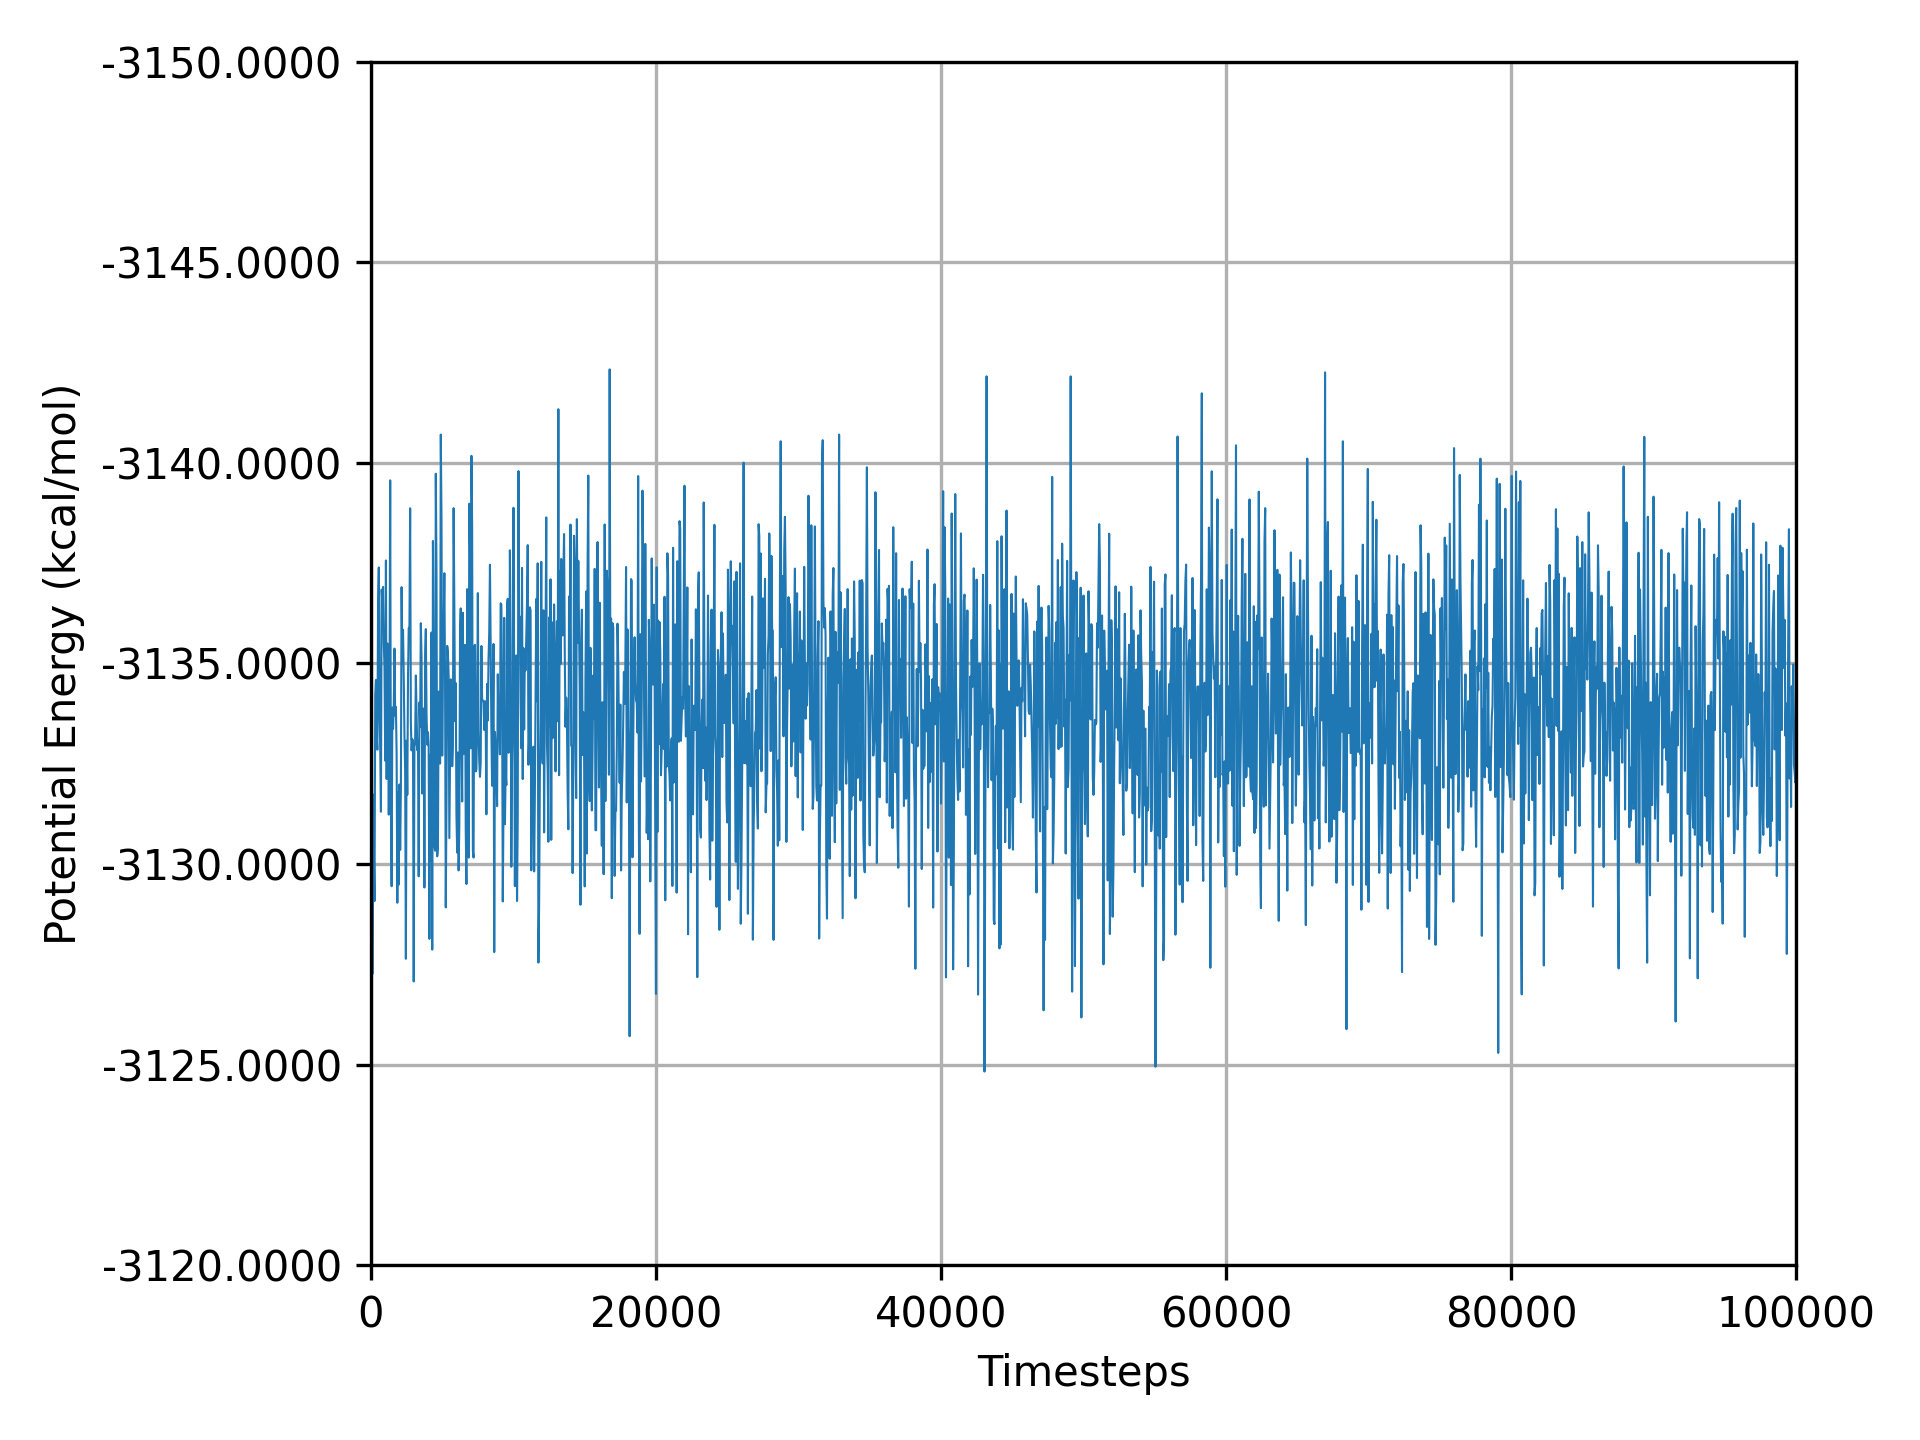
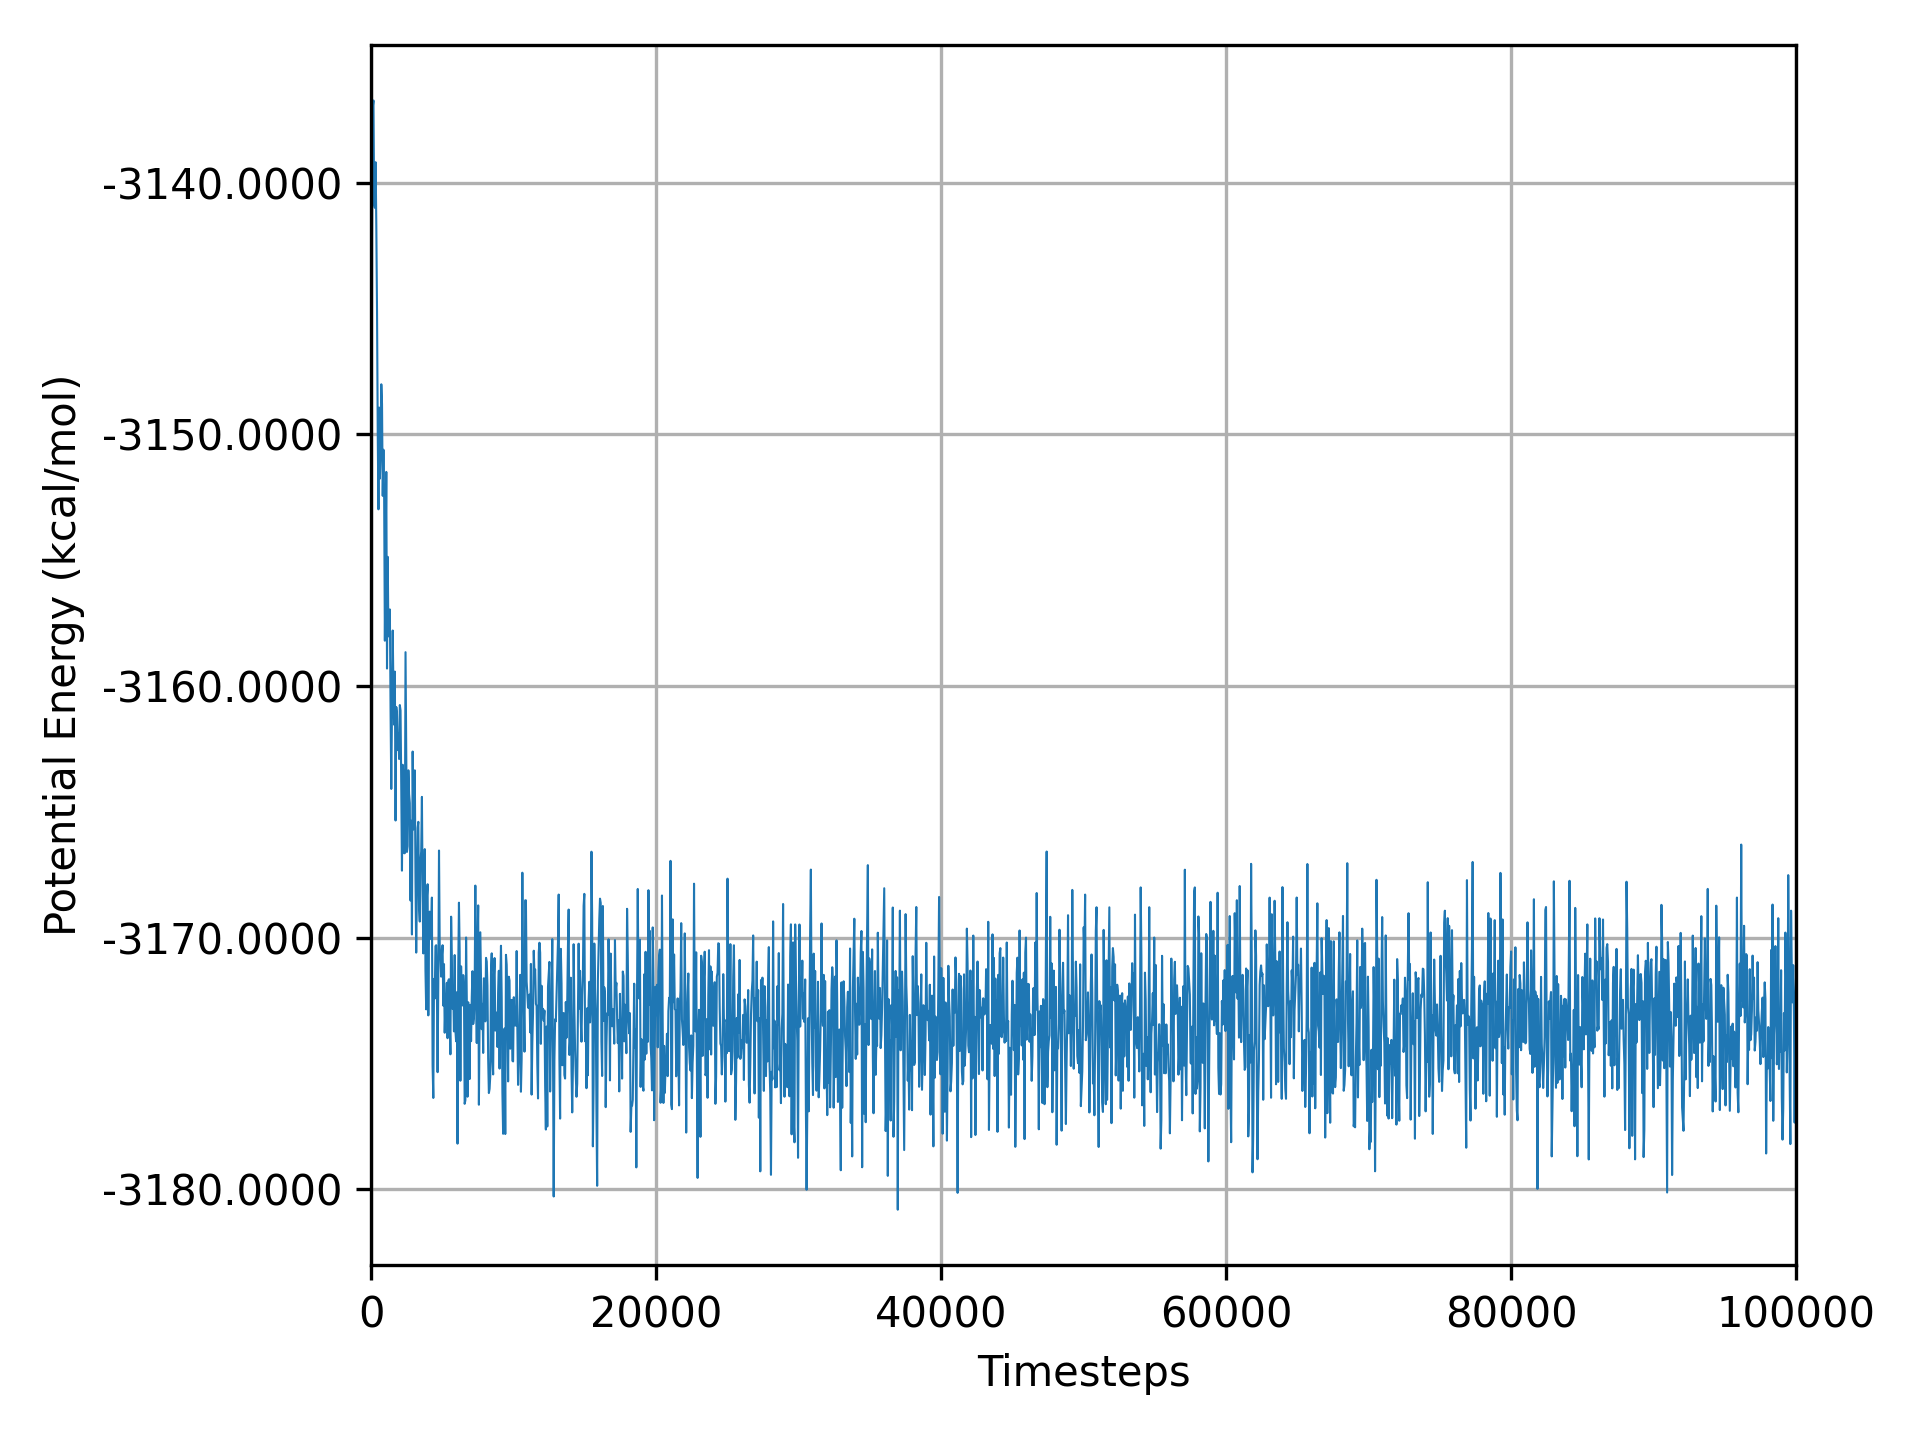
Update examples and analysis scripts

diff --git a/examples/nvt.rs b/examples/nvt.rs
@@ -1,3 +1,5 @@
+extern crate pretty_env_logger;
+
 use std::fs::File;
 use std::io::BufReader;
 
@@ -8,6 +10,8 @@ static OUTPUT_INTERVAL: usize = 50;
 static OUTPUT_FILENAME: &str = "nvt.h5";
 
 fn main() {
+    pretty_env_logger::init();
+
     // Load an Ar gas system from a POSCAR formatted file.
     let file = File::open("resources/test/Ar.poscar").unwrap();
     let reader = BufReader::new(file);
@@ -19,11 +23,12 @@ fn main() {
 
     // Initialize a Lennard-Jones style pair potential between all Ar-Ar pairs.
     let lj = LennardJones::new(4.184, 3.4);
-    let meta = PairMeta::new(8.5, (Element::Ar, Element::Ar), &system);
+    let argon = Specie::from_element(0, Element::Ar);
 
     // Store all of the system's potentials in a Potentials struct.
     let potentials = PotentialsBuilder::new()
-        .add_pair(meta, Box::new(lj))
+        .with_update_interval(5)
+        .with_pair(Box::new(lj), 8.5, (argon, argon))
         .build();
 
     // Initialize a velocity Verlet style integrator.
@@ -32,7 +37,7 @@ fn main() {
     // Initialize a Nose-Hoover style thermostat.
     let nose_hoover = NoseHoover::new(300.0, 1.25, 1.0);
 
-    // Run MD with a thermostat to simulate the NVT ensemble.
+    // Run MD with a Nose-Hoover thermostat to simulate the NVT ensemble.
     let md = MolecularDynamics::new(Box::new(velocity_verlet), Box::new(nose_hoover));
 
     // Initialize a configuration.

diff --git a/examples/nve.rs b/examples/nve.rs
@@ -1,3 +1,5 @@
+extern crate pretty_env_logger;
+
 use std::fs::File;
 use std::io::BufReader;
 
@@ -8,6 +10,8 @@ static OUTPUT_INTERVAL: usize = 50;
 static OUTPUT_FILENAME: &str = "nve.h5";
 
 fn main() {
+    pretty_env_logger::init();
+
     // Load an Ar gas system from a POSCAR formatted file.
     let file = File::open("resources/test/Ar.poscar").unwrap();
     let reader = BufReader::new(file);
@@ -19,11 +23,12 @@ fn main() {
 
     // Initialize a Lennard-Jones style pair potential between all Ar-Ar pairs.
     let lj = LennardJones::new(4.184, 3.4);
-    let meta = PairMeta::new(8.5, (Element::Ar, Element::Ar), &system);
+    let argon = Specie::from_element(0, Element::Ar);
 
     // Store all of the system's potentials in a Potentials struct.
     let potentials = PotentialsBuilder::new()
-        .add_pair(meta, Box::new(lj))
+        .with_update_interval(5)
+        .with_pair(Box::new(lj), 8.5, (argon, argon))
         .build();
 
     // Initialize a velocity Verlet style integrator.

diff --git a/scripts/nve-analyze.py b/scripts/nve-analyze.py
@@ -16,7 +16,6 @@ if __name__ == "__main__":
     fig, ax = plt.subplots()
     ax.plot(logged_steps, energies, linewidth=0.5)
     ax.set_xlim((0, TIMESTEPS))
-    ax.set_ylim((-3120, -3150))
 
     ax.set_xlabel("Timesteps")
     ax.set_ylabel("Potential Energy (kcal/mol)")
